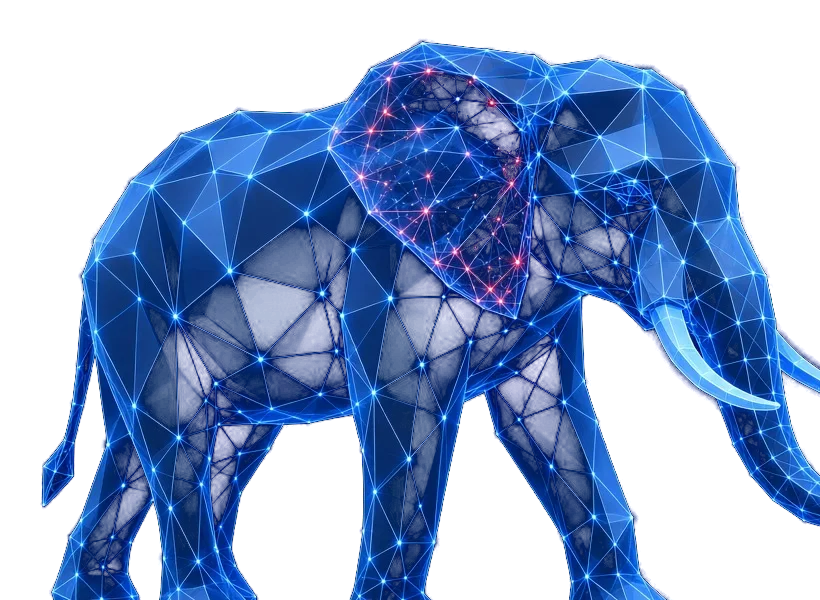
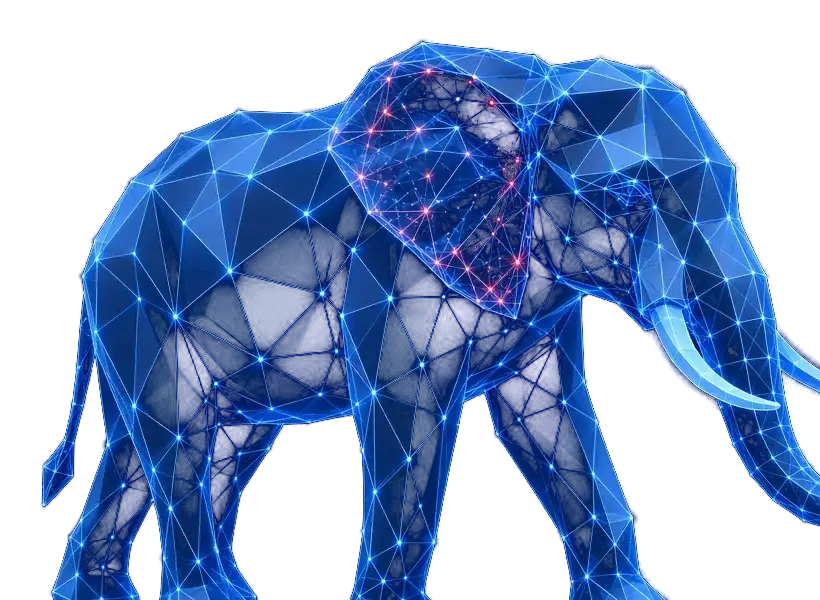
tomas-version: perf (lighter elephant, lazy card images)

diff --git a/tomas-version/work.html b/tomas-version/work.html
@@ -90,7 +90,7 @@
   <button class="menu-btn" type="button" aria-expanded="false" aria-controls="nav"><span class="sr-only">Menu</span><i></i><i></i></button></div>
 </header>
 <main id="main" class="j">
-<section class="s s-dark phead"><div class="wrap narrow"><p class="kicker">My work</p><h1 id="h1" class="hero-h">Real sites, live now.</h1><p class="lead">Every project here is finished, online and clickable. I built each one start to finish.</p></div></section><section class="s s-light"><div class="wrap"><p class="stat"><b>4</b> sites <span>in</span> <b>3</b> weeks, start to finish.</p><ul class="cards"><li class="rv wc proud"><span class="flag">My proudest</span><img src="img/khemistry.webp" width="1440" height="900" alt="Khemistry website home page"><div><h3>Khemistry</h3><p>A site for Khemistry Pty Ltd, a recruitment business built around one idea: people, place and purpose. It has a periodic table intro I built from scratch. This is the one I&rsquo;m most proud of.</p><a href="https://finlaysonnick74-source.github.io/khemistry-dev/" target="_blank" rel="noopener">See the site ↗</a></div></li><li class="rv wc"><img src="img/pja-mock.webp" width="1440" height="900" alt="Perfect Jobs &amp; Adventures website home page"><div><h3>Perfect Jobs &amp; Adventures</h3><p>A full site for a Sydney business helping 18 to 35 year olds settle in and see Australia: jobs, adventures and arrival packages.</p><a href="https://perfectjobsandadventures.github.io/" target="_blank" rel="noopener">Visit live site ↗</a></div></li><li class="rv wc"><img src="img/pap.webp" width="1440" height="900" alt="Perfect Au Pairs website home page"><div><h3>Perfect Au Pairs</h3><p>An au pair agency site with matching for families and au pairs, plus a big Harbour Bridge hero.</p><a href="https://perfect-au-pairs-platform.netlify.app/" target="_blank" rel="noopener">Visit live site ↗</a></div></li><li class="rv wc"><img src="img/lux.webp" width="1440" height="900" alt="Lux-Lashes website home page"><div><h3>Lux-Lashes</h3><p>A site for a mobile lash artist on the Northern Beaches, with private appointments at home.</p><a href="https://lux-lashes.com" target="_blank" rel="noopener">Visit live site ↗</a></div></li><li class="rv wc"><img src="img/innovo.webp" width="1440" height="900" alt="Innovo website home page"><div><h3>Innovo</h3><p>A site for a technology company that does enterprise AI and automation.</p><a href="https://innovotech.com" target="_blank" rel="noopener">Visit live site ↗</a></div></li></ul><div class="free5 rv"><p class="kicker">First five sites, free</p><h3 class="fs-h">I&rsquo;m building my first five sites free.</h3><p class="body muted2">To prove myself, my first five client sites cost nothing. One is done. Four spots are still open for a local business, club or charity.</p><ol class="fs-grid"><li class="fs-slot fs-done"><a href="https://finlaysonnick74-source.github.io/khemistry-dev/" target="_blank" rel="noopener"><span class="fs-n">1</span><h3>Khemistry</h3><p>Done and online. See the site ↗</p></a></li><li class="fs-slot"><span class="fs-n">2</span><h3>Spot open</h3><p>Coming soon. This could be your business.</p></li><li class="fs-slot"><span class="fs-n">3</span><h3>Spot open</h3><p>Coming soon. This could be your business.</p></li><li class="fs-slot"><span class="fs-n">4</span><h3>Spot open</h3><p>Coming soon. This could be your business.</p></li><li class="fs-slot"><span class="fs-n">5</span><h3>Spot open</h3><p>Coming soon. This could be your business.</p></li></ol><p class="note">Want one of the four open spots? <a href="brief.html">Start a project →</a></p></div><p class="note">Want the story behind each one? <a href="progress.html">See my progress →</a></p></div></section><div class="oldwrap"><section class="psec samples" id="samples"><p class="label">Sample designs · fictional businesses, not clients</p><h2 class="sec-h sm">Sample designs</h2><p class="prose muted">Each one has its own look, made to suit the type of business, and every site I build is designed for you rather than copied from a template.</p><ul class="sgrid"><li class="sample"><a href="samples/saltwater-cafe/"><img src="img/s-saltwater-cafe.webp" width="1200" height="750" loading="lazy" alt="Sample design for Saltwater &amp; Crumb, a fictional Manly café"><p><span class="tag">Sample design</span> <b>Saltwater &amp; Crumb</b> — Manly café <span class="muted">(fictional)</span> ↗</p></a></li><li class="sample"><a href="samples/swell-academy/"><img src="img/s-swell-academy.webp" width="1200" height="750" loading="lazy" alt="Sample design for Swell Academy, a fictional Dee Why surf school"><p><span class="tag">Sample design</span> <b>Swell Academy</b> — Dee Why surf school <span class="muted">(fictional)</span> ↗</p></a></li><li class="sample"><a href="samples/peninsula-sparks/"><img src="img/s-peninsula-sparks.webp" width="1200" height="750" loading="lazy" alt="Sample design for Peninsula Pipes &amp; Sparks, a fictional Electrician / tradie"><p><span class="tag">Sample design</span> <b>Peninsula Pipes &amp; Sparks</b> — Electrician / tradie <span class="muted">(fictional)</span> ↗</p></a></li><li class="sample"><a href="samples/ground-studio/"><img src="img/s-ground-studio.webp" width="1200" height="750" loading="lazy" alt="Sample design for Ground Physio + Pilates, a fictional Mona Vale physio &amp; Pilates"><p><span class="tag">Sample design</span> <b>Ground Physio + Pilates</b> — Mona Vale physio &amp; Pilates <span class="muted">(fictional)</span> ↗</p></a></li><li class="sample"><a href="samples/sudsy-paws/"><img src="img/s-sudsy-paws.webp" width="1200" height="750" loading="lazy" alt="Sample design for Sudsy Paws, a fictional Narrabeen dog wash"><p><span class="tag">Sample design</span> <b>Sudsy Paws Mobile Grooming</b> — Narrabeen dog wash <span class="muted">(fictional)</span> ↗</p></a></li><li class="sample"><a href="samples/barrenjoey-house/"><img src="img/s-barrenjoey-house.webp" width="1200" height="750" loading="lazy" alt="Sample design for Barrenjoey House Weddings, a fictional Palm Beach weddings"><p><span class="tag">Sample design</span> <b>Barrenjoey House Weddings</b> — Palm Beach weddings <span class="muted">(fictional)</span> ↗</p></a></li><li class="sample"><a href="examples/cafe/"><img src="examples/cafe/preview.webp" loading="lazy" alt="Sample design for Ember &amp; Oat, a fictional cafe and bakery"><p><span class="tag">Sample design</span> <b>Ember &amp; Oat</b> — cafe &amp; bakery <span class="muted">(fictional)</span> →</p></a></li><li class="sample"><a href="examples/electrician/"><img src="examples/electrician/preview.webp" loading="lazy" alt="Sample design for Ironbark Electrical, a fictional electrician"><p><span class="tag">Sample design</span> <b>Ironbark Electrical</b> — electrician <span class="muted">(fictional)</span> →</p></a></li></ul></section></div><section class="s s-dark s7" id="start" aria-labelledby="h7">
+<section class="s s-dark phead"><div class="wrap narrow"><p class="kicker">My work</p><h1 id="h1" class="hero-h">Real sites, live now.</h1><p class="lead">Every project here is finished, online and clickable. I built each one start to finish.</p></div></section><section class="s s-light"><div class="wrap"><p class="stat"><b>4</b> sites <span>in</span> <b>3</b> weeks, start to finish.</p><ul class="cards"><li class="rv wc proud"><span class="flag">My proudest</span><img loading="lazy" decoding="async" src="img/khemistry.webp" width="1440" height="900" alt="Khemistry website home page"><div><h3>Khemistry</h3><p>A site for Khemistry Pty Ltd, a recruitment business built around one idea: people, place and purpose. It has a periodic table intro I built from scratch. This is the one I&rsquo;m most proud of.</p><a href="https://finlaysonnick74-source.github.io/khemistry-dev/" target="_blank" rel="noopener">See the site ↗</a></div></li><li class="rv wc"><img loading="lazy" decoding="async" src="img/pja-mock.webp" width="1440" height="900" alt="Perfect Jobs &amp; Adventures website home page"><div><h3>Perfect Jobs &amp; Adventures</h3><p>A full site for a Sydney business helping 18 to 35 year olds settle in and see Australia: jobs, adventures and arrival packages.</p><a href="https://perfectjobsandadventures.github.io/" target="_blank" rel="noopener">Visit live site ↗</a></div></li><li class="rv wc"><img loading="lazy" decoding="async" src="img/pap.webp" width="1440" height="900" alt="Perfect Au Pairs website home page"><div><h3>Perfect Au Pairs</h3><p>An au pair agency site with matching for families and au pairs, plus a big Harbour Bridge hero.</p><a href="https://perfect-au-pairs-platform.netlify.app/" target="_blank" rel="noopener">Visit live site ↗</a></div></li><li class="rv wc"><img loading="lazy" decoding="async" src="img/lux.webp" width="1440" height="900" alt="Lux-Lashes website home page"><div><h3>Lux-Lashes</h3><p>A site for a mobile lash artist on the Northern Beaches, with private appointments at home.</p><a href="https://lux-lashes.com" target="_blank" rel="noopener">Visit live site ↗</a></div></li><li class="rv wc"><img loading="lazy" decoding="async" src="img/innovo.webp" width="1440" height="900" alt="Innovo website home page"><div><h3>Innovo</h3><p>A site for a technology company that does enterprise AI and automation.</p><a href="https://innovotech.com" target="_blank" rel="noopener">Visit live site ↗</a></div></li></ul><div class="free5 rv"><p class="kicker">First five sites, free</p><h3 class="fs-h">I&rsquo;m building my first five sites free.</h3><p class="body muted2">To prove myself, my first five client sites cost nothing. One is done. Four spots are still open for a local business, club or charity.</p><ol class="fs-grid"><li class="fs-slot fs-done"><a href="https://finlaysonnick74-source.github.io/khemistry-dev/" target="_blank" rel="noopener"><span class="fs-n">1</span><h3>Khemistry</h3><p>Done and online. See the site ↗</p></a></li><li class="fs-slot"><span class="fs-n">2</span><h3>Spot open</h3><p>Coming soon. This could be your business.</p></li><li class="fs-slot"><span class="fs-n">3</span><h3>Spot open</h3><p>Coming soon. This could be your business.</p></li><li class="fs-slot"><span class="fs-n">4</span><h3>Spot open</h3><p>Coming soon. This could be your business.</p></li><li class="fs-slot"><span class="fs-n">5</span><h3>Spot open</h3><p>Coming soon. This could be your business.</p></li></ol><p class="note">Want one of the four open spots? <a href="brief.html">Start a project →</a></p></div><p class="note">Want the story behind each one? <a href="progress.html">See my progress →</a></p></div></section><div class="oldwrap"><section class="psec samples" id="samples"><p class="label">Sample designs · fictional businesses, not clients</p><h2 class="sec-h sm">Sample designs</h2><p class="prose muted">Each one has its own look, made to suit the type of business, and every site I build is designed for you rather than copied from a template.</p><ul class="sgrid"><li class="sample"><a href="samples/saltwater-cafe/"><img src="img/s-saltwater-cafe.webp" width="1200" height="750" loading="lazy" alt="Sample design for Saltwater &amp; Crumb, a fictional Manly café"><p><span class="tag">Sample design</span> <b>Saltwater &amp; Crumb</b> — Manly café <span class="muted">(fictional)</span> ↗</p></a></li><li class="sample"><a href="samples/swell-academy/"><img src="img/s-swell-academy.webp" width="1200" height="750" loading="lazy" alt="Sample design for Swell Academy, a fictional Dee Why surf school"><p><span class="tag">Sample design</span> <b>Swell Academy</b> — Dee Why surf school <span class="muted">(fictional)</span> ↗</p></a></li><li class="sample"><a href="samples/peninsula-sparks/"><img src="img/s-peninsula-sparks.webp" width="1200" height="750" loading="lazy" alt="Sample design for Peninsula Pipes &amp; Sparks, a fictional Electrician / tradie"><p><span class="tag">Sample design</span> <b>Peninsula Pipes &amp; Sparks</b> — Electrician / tradie <span class="muted">(fictional)</span> ↗</p></a></li><li class="sample"><a href="samples/ground-studio/"><img src="img/s-ground-studio.webp" width="1200" height="750" loading="lazy" alt="Sample design for Ground Physio + Pilates, a fictional Mona Vale physio &amp; Pilates"><p><span class="tag">Sample design</span> <b>Ground Physio + Pilates</b> — Mona Vale physio &amp; Pilates <span class="muted">(fictional)</span> ↗</p></a></li><li class="sample"><a href="samples/sudsy-paws/"><img src="img/s-sudsy-paws.webp" width="1200" height="750" loading="lazy" alt="Sample design for Sudsy Paws, a fictional Narrabeen dog wash"><p><span class="tag">Sample design</span> <b>Sudsy Paws Mobile Grooming</b> — Narrabeen dog wash <span class="muted">(fictional)</span> ↗</p></a></li><li class="sample"><a href="samples/barrenjoey-house/"><img src="img/s-barrenjoey-house.webp" width="1200" height="750" loading="lazy" alt="Sample design for Barrenjoey House Weddings, a fictional Palm Beach weddings"><p><span class="tag">Sample design</span> <b>Barrenjoey House Weddings</b> — Palm Beach weddings <span class="muted">(fictional)</span> ↗</p></a></li><li class="sample"><a href="examples/cafe/"><img src="examples/cafe/preview.webp" loading="lazy" alt="Sample design for Ember &amp; Oat, a fictional cafe and bakery"><p><span class="tag">Sample design</span> <b>Ember &amp; Oat</b> — cafe &amp; bakery <span class="muted">(fictional)</span> →</p></a></li><li class="sample"><a href="examples/electrician/"><img src="examples/electrician/preview.webp" loading="lazy" alt="Sample design for Ironbark Electrical, a fictional electrician"><p><span class="tag">Sample design</span> <b>Ironbark Electrical</b> — electrician <span class="muted">(fictional)</span> →</p></a></li></ul></section></div><section class="s s-dark s7" id="start" aria-labelledby="h7">
   <div class="wrap narrow">
     <h2 id="h7" class="sh rv">Why trust me?</h2>
     <blockquote class="pull dk rv d1"><p>“I’m publicly showing the world my transformation, my journey from troubled to focused. Because of this, everything I do is in the public eye. So I’m determined to learn the skills and apply them, along with my work ethic, so my websites are the best possible outcomes for customers, and at the same time transform my life.”</p><cite>Tomas</cite></blockquote>

diff --git a/tomas-version/index.html b/tomas-version/index.html
@@ -139,7 +139,7 @@
     <p class="kicker">My work</p>
     <h2 id="h5" class="sh rv">Real sites, live now.</h2>
     <p class="body muted2">Every one is finished, online and clickable.</p>
-    <p class="stat"><b>4</b> sites <span>in</span> <b>3</b> weeks, start to finish.</p><ul class="cards"><li class="rv wc proud"><span class="flag">My proudest</span><img src="img/khemistry.webp" width="1440" height="900" alt="Khemistry website home page"><div><h3>Khemistry</h3><p>A site for Khemistry Pty Ltd, a recruitment business built around one idea: people, place and purpose. It has a periodic table intro I built from scratch. This is the one I&rsquo;m most proud of.</p><a href="https://finlaysonnick74-source.github.io/khemistry-dev/" target="_blank" rel="noopener">See the site ↗</a></div></li><li class="rv wc"><img src="img/pja-mock.webp" width="1440" height="900" alt="Perfect Jobs &amp; Adventures website home page"><div><h3>Perfect Jobs &amp; Adventures</h3><p>A full site for a Sydney business helping 18 to 35 year olds settle in and see Australia: jobs, adventures and arrival packages.</p><a href="https://perfectjobsandadventures.github.io/" target="_blank" rel="noopener">Visit live site ↗</a></div></li><li class="rv wc"><img src="img/pap.webp" width="1440" height="900" alt="Perfect Au Pairs website home page"><div><h3>Perfect Au Pairs</h3><p>An au pair agency site with matching for families and au pairs, plus a big Harbour Bridge hero.</p><a href="https://perfect-au-pairs-platform.netlify.app/" target="_blank" rel="noopener">Visit live site ↗</a></div></li><li class="rv wc"><img src="img/lux.webp" width="1440" height="900" alt="Lux-Lashes website home page"><div><h3>Lux-Lashes</h3><p>A site for a mobile lash artist on the Northern Beaches, with private appointments at home.</p><a href="https://lux-lashes.com" target="_blank" rel="noopener">Visit live site ↗</a></div></li><li class="rv wc"><img src="img/innovo.webp" width="1440" height="900" alt="Innovo website home page"><div><h3>Innovo</h3><p>A site for a technology company that does enterprise AI and automation.</p><a href="https://innovotech.com" target="_blank" rel="noopener">Visit live site ↗</a></div></li></ul><div class="free5 rv"><p class="kicker">First five sites, free</p><h3 class="fs-h">I&rsquo;m building my first five sites free.</h3><p class="body muted2">To prove myself, my first five client sites cost nothing. One is done. Four spots are still open for a local business, club or charity.</p><ol class="fs-grid"><li class="fs-slot fs-done"><a href="https://finlaysonnick74-source.github.io/khemistry-dev/" target="_blank" rel="noopener"><span class="fs-n">1</span><h3>Khemistry</h3><p>Done and online. See the site ↗</p></a></li><li class="fs-slot"><span class="fs-n">2</span><h3>Spot open</h3><p>Coming soon. This could be your business.</p></li><li class="fs-slot"><span class="fs-n">3</span><h3>Spot open</h3><p>Coming soon. This could be your business.</p></li><li class="fs-slot"><span class="fs-n">4</span><h3>Spot open</h3><p>Coming soon. This could be your business.</p></li><li class="fs-slot"><span class="fs-n">5</span><h3>Spot open</h3><p>Coming soon. This could be your business.</p></li></ol><p class="note">Want one of the four open spots? <a href="brief.html">Start a project →</a></p></div>
+    <p class="stat"><b>4</b> sites <span>in</span> <b>3</b> weeks, start to finish.</p><ul class="cards"><li class="rv wc proud"><span class="flag">My proudest</span><img loading="lazy" decoding="async" src="img/khemistry.webp" width="1440" height="900" alt="Khemistry website home page"><div><h3>Khemistry</h3><p>A site for Khemistry Pty Ltd, a recruitment business built around one idea: people, place and purpose. It has a periodic table intro I built from scratch. This is the one I&rsquo;m most proud of.</p><a href="https://finlaysonnick74-source.github.io/khemistry-dev/" target="_blank" rel="noopener">See the site ↗</a></div></li><li class="rv wc"><img loading="lazy" decoding="async" src="img/pja-mock.webp" width="1440" height="900" alt="Perfect Jobs &amp; Adventures website home page"><div><h3>Perfect Jobs &amp; Adventures</h3><p>A full site for a Sydney business helping 18 to 35 year olds settle in and see Australia: jobs, adventures and arrival packages.</p><a href="https://perfectjobsandadventures.github.io/" target="_blank" rel="noopener">Visit live site ↗</a></div></li><li class="rv wc"><img loading="lazy" decoding="async" src="img/pap.webp" width="1440" height="900" alt="Perfect Au Pairs website home page"><div><h3>Perfect Au Pairs</h3><p>An au pair agency site with matching for families and au pairs, plus a big Harbour Bridge hero.</p><a href="https://perfect-au-pairs-platform.netlify.app/" target="_blank" rel="noopener">Visit live site ↗</a></div></li><li class="rv wc"><img loading="lazy" decoding="async" src="img/lux.webp" width="1440" height="900" alt="Lux-Lashes website home page"><div><h3>Lux-Lashes</h3><p>A site for a mobile lash artist on the Northern Beaches, with private appointments at home.</p><a href="https://lux-lashes.com" target="_blank" rel="noopener">Visit live site ↗</a></div></li><li class="rv wc"><img loading="lazy" decoding="async" src="img/innovo.webp" width="1440" height="900" alt="Innovo website home page"><div><h3>Innovo</h3><p>A site for a technology company that does enterprise AI and automation.</p><a href="https://innovotech.com" target="_blank" rel="noopener">Visit live site ↗</a></div></li></ul><div class="free5 rv"><p class="kicker">First five sites, free</p><h3 class="fs-h">I&rsquo;m building my first five sites free.</h3><p class="body muted2">To prove myself, my first five client sites cost nothing. One is done. Four spots are still open for a local business, club or charity.</p><ol class="fs-grid"><li class="fs-slot fs-done"><a href="https://finlaysonnick74-source.github.io/khemistry-dev/" target="_blank" rel="noopener"><span class="fs-n">1</span><h3>Khemistry</h3><p>Done and online. See the site ↗</p></a></li><li class="fs-slot"><span class="fs-n">2</span><h3>Spot open</h3><p>Coming soon. This could be your business.</p></li><li class="fs-slot"><span class="fs-n">3</span><h3>Spot open</h3><p>Coming soon. This could be your business.</p></li><li class="fs-slot"><span class="fs-n">4</span><h3>Spot open</h3><p>Coming soon. This could be your business.</p></li><li class="fs-slot"><span class="fs-n">5</span><h3>Spot open</h3><p>Coming soon. This could be your business.</p></li></ol><p class="note">Want one of the four open spots? <a href="brief.html">Start a project →</a></p></div>
     <p class="note">Also proud of: this site. I built it, and I keep it honest. <a href="work.html">See all my work →</a></p>
   </div>
 </section>
